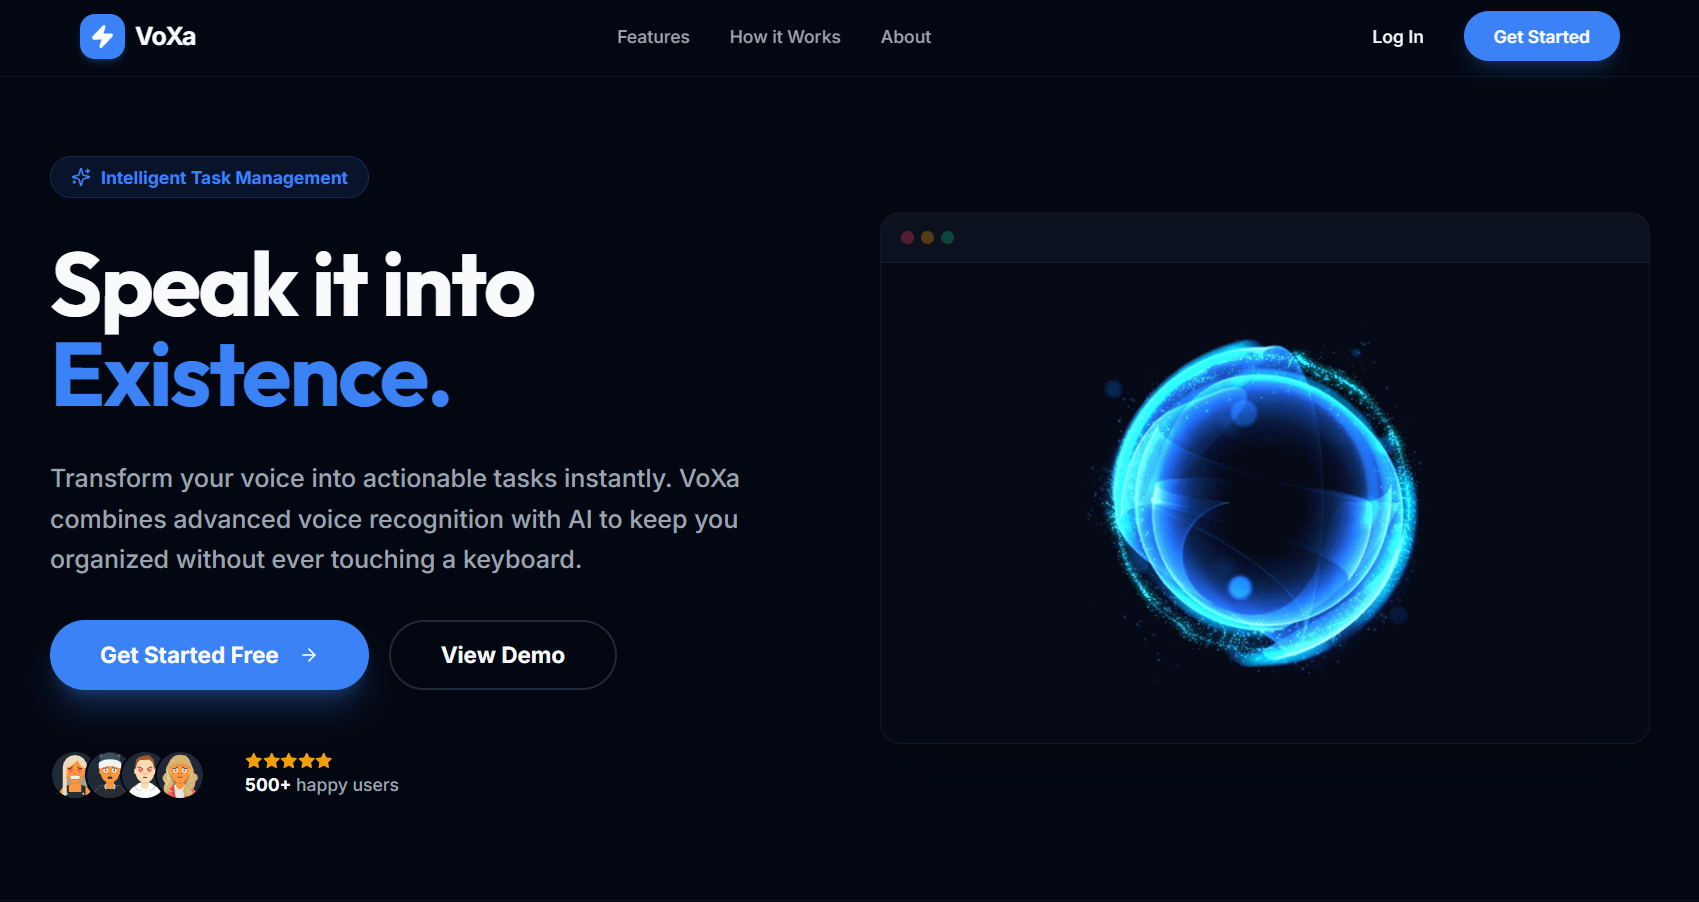
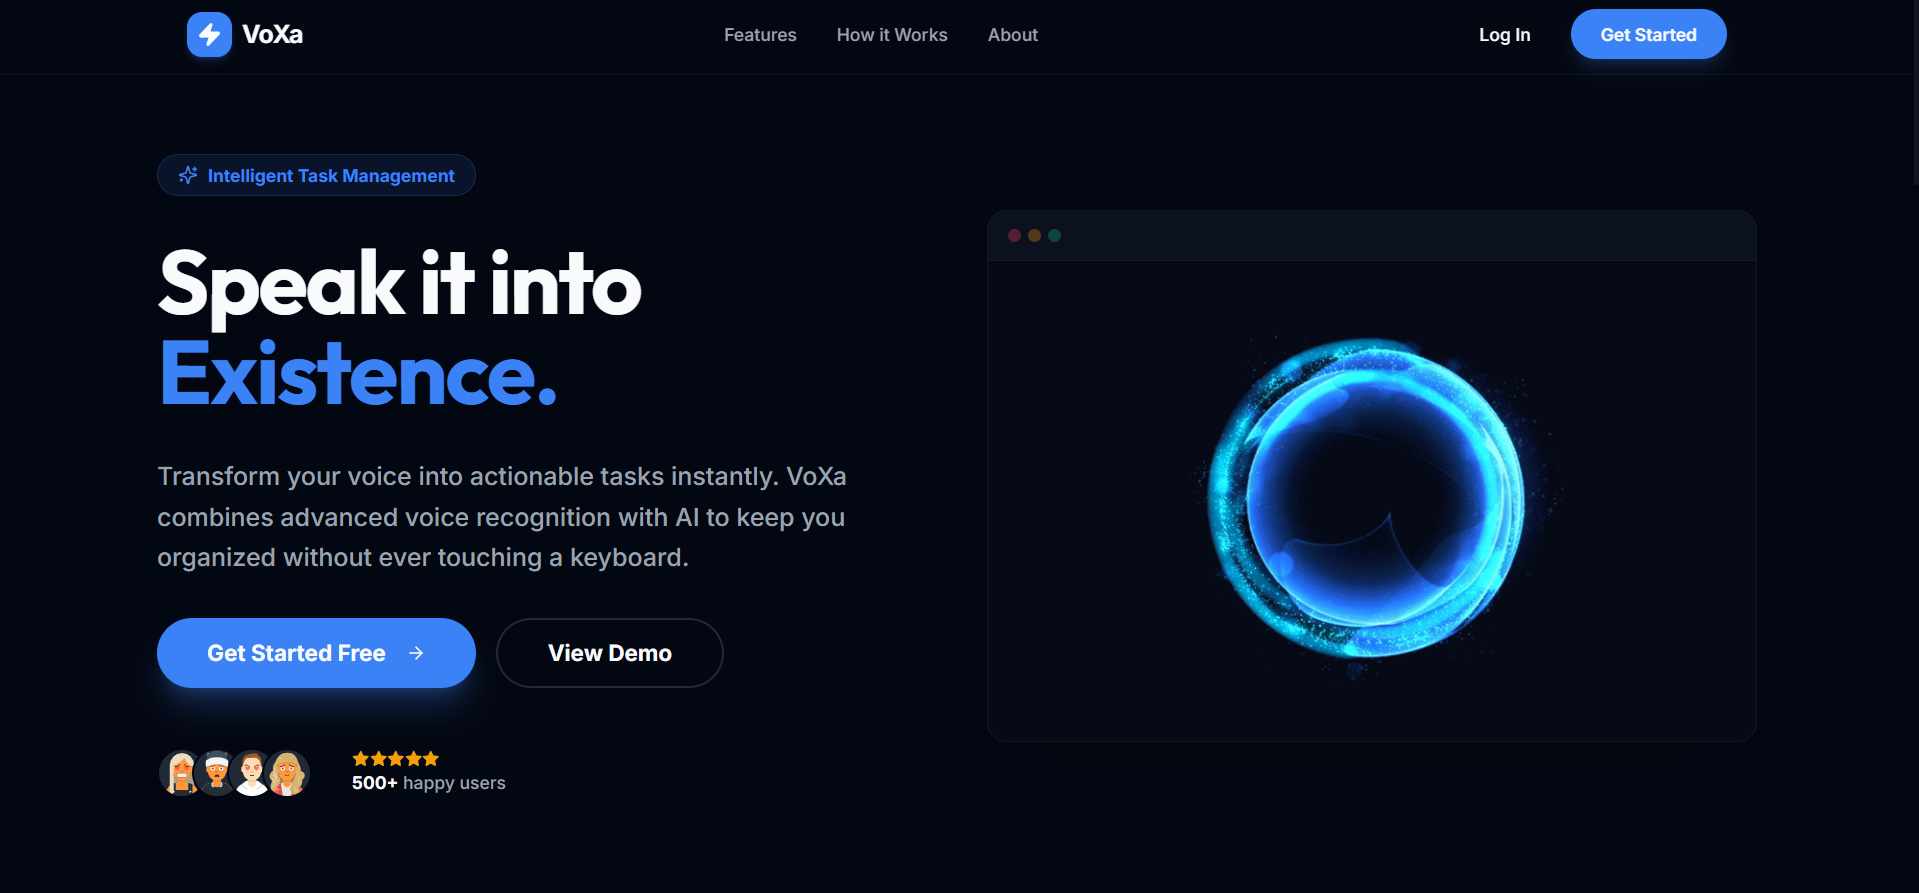
Moved Hero session and updated base padding

diff --git a/app/page.tsx b/app/page.tsx
@@ -15,14 +15,14 @@ export default function Home() {
   return (
     <div className="min-h-screen bg-background selection:bg-purple-500/30 overflow-x-hidden" id="home">
       <Header />
-      
-      <main className="container mx-auto px-32 sm:px-6 lg:px-8 max-w-7xl space-y-24 md:space-y-32 pt-36 md:pt-52">
-        
-        {/* Bento Hero Section */}
-        <section className="grid grid-cols-1 lg:grid-cols-3 gap-6">
+          <section className="grid grid-cols-1 lg:grid-cols-3 gap-6">
           <Hero />
           <Profile />
         </section>
+      <main className="container mx-auto px-26 sm:px-6 lg:px-8 max-w-7xl space-y-24 md:space-y-32 pt-36 md:pt-52">
+        
+        {/* Bento Hero Section */}
+
 
         {/* Featured Projects */}
         <section id="projects" className="scroll-mt-32">
